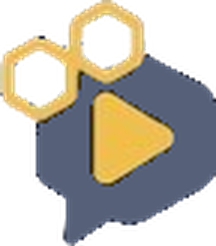
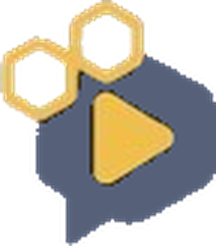
어두운 배경 로고 테두리 투명화와 예약 메뉴명 수정

diff --git a/src/app/(public)/intro/pdfGenerator.ts b/src/app/(public)/intro/pdfGenerator.ts
@@ -60,7 +60,7 @@ export async function generateSellerBricksPdf(
         'border-radius:50%;background:#E8921A;opacity:0.07;"></div>' +
         '<div style="display:flex;flex-direction:column;align-items:center;justify-content:center;' +
         'height:100%;padding:80px;box-sizing:border-box;text-align:center;position:relative;">' +
-          '<img src="' + origin + '/images/brand/logo-original-on-dark.png?v=4" ' +
+          '<img src="' + origin + '/images/brand/logo-original-on-dark.png?v=6" ' +
           'style="height:50px;margin-bottom:44px;object-fit:contain;" />' +
           '<div style="background:#F5A623;color:#1C1917;font-size:11px;font-weight:700;' +
           'letter-spacing:2px;padding:5px 18px;border-radius:20px;margin-bottom:32px;">' +
@@ -302,7 +302,7 @@ export async function generateSellerBricksPdf(
         'border-radius:50%;background:#E8921A;opacity:0.06;"></div>' +
         '<div style="display:flex;flex-direction:column;align-items:center;justify-content:center;' +
         'height:100%;padding:80px;box-sizing:border-box;text-align:center;position:relative;">' +
-          '<img src="' + origin + '/images/brand/logo-original-on-dark.png?v=4" ' +
+          '<img src="' + origin + '/images/brand/logo-original-on-dark.png?v=6" ' +
           'style="height:44px;margin-bottom:36px;object-fit:contain;" />' +
           '<div style="color:#F5A623;font-size:12px;font-weight:700;letter-spacing:2px;margin-bottom:16px;">' +
             'GET STARTED TODAY' +

diff --git a/src/components/layout/site-footer.tsx b/src/components/layout/site-footer.tsx
@@ -12,7 +12,7 @@ export function SiteFooter() {
     <footer className="bg-[#11172B] text-white">
       <div className="container grid gap-12 py-16 sm:py-20 lg:grid-cols-[1.5fr_1fr] lg:gap-20">
         <div>
-          <Link href="/" className="inline-block"><Image src="/images/brand/logo-original-on-dark.png?v=4" alt="셀러브릭스 스튜디오" width={210} height={56} className="h-14 w-auto object-contain" /></Link>
+          <Link href="/" className="inline-block"><Image src="/images/brand/logo-original-on-dark.png?v=6" alt="셀러브릭스 스튜디오" width={210} height={56} className="h-14 w-auto object-contain" /></Link>
           <h2 className="mt-8 text-2xl font-extrabold leading-snug tracking-tight sm:text-3xl">방송에만 집중하세요.<br /><span className="text-brand-300">나머지는 우리가 합니다.</span></h2>
           <p className="mt-4 max-w-md text-sm leading-7 text-white/55">라이브커머스의 공간 탐색부터 운영과 판매 이후의 확인까지, 셀러의 다음 단계를 함께 준비합니다.</p>
           <Link href="/signup/seller" className="mt-7 inline-flex min-h-11 items-center gap-2 rounded-full border border-white/25 px-5 text-sm font-bold text-white transition hover:border-brand-400 hover:text-brand-300">셀러로 시작하기<ArrowRight className="h-4 w-4" /></Link>

diff --git a/src/components/layout/site-header.tsx b/src/components/layout/site-header.tsx
@@ -51,7 +51,7 @@ export function SiteHeader() {
               className="flex items-center gap-1.5 rounded-full px-3 py-2 text-sm font-semibold text-emerald-700 hover:bg-white transition-colors"
             >
               <Building2 className="h-3.5 w-3.5" />
-              시설 예약
+              창고(스튜디오) 예약
             </Link>
           )}
         </nav>
@@ -105,7 +105,7 @@ export function SiteHeader() {
               onClick={() => setOpen(false)}
             >
               <Building2 className="h-3.5 w-3.5" />
-              시설 예약
+              창고(스튜디오) 예약
             </Link>
           )}
           <div className="pt-2 border-t border-border mt-2 flex flex-col gap-2">

diff --git a/src/app/layout.tsx b/src/app/layout.tsx
@@ -6,7 +6,7 @@ import { Providers } from "@/components/providers";
 const siteName = "셀러브릭스 스튜디오";
 const shareTitle = "좋은 상품이 더 멀리 닿는 라이브";
 const shareDescription = "창고(스튜디오) 찾기부터 라이브 준비와 판매 관리까지, 셀러브릭스 스튜디오가 함께합니다.";
-const shareImage = "/images/social/share-card-v4.jpg";
+const shareImage = "/images/social/share-card-v5.jpg";
 
 function getSiteUrl(): URL {
   const configuredUrl = process.env.NEXT_PUBLIC_APP_URL;

diff --git a/src/app/(auth)/layout.tsx b/src/app/(auth)/layout.tsx
@@ -6,7 +6,7 @@ export default function AuthLayout({ children }: { children: React.ReactNode }) 
     <div className="min-h-screen bg-gradient-to-b from-navy to-blue-950 flex flex-col items-center justify-center p-4 py-8">
       <Link href="/" className="mb-6 flex flex-col items-center">
         <Image
-          src="/images/brand/logo-original-on-dark.png?v=4"
+          src="/images/brand/logo-original-on-dark.png?v=6"
           alt="셀러브릭스 스튜디오"
           width={220}
           height={56}

diff --git a/src/components/layout/dashboard-shell.tsx b/src/components/layout/dashboard-shell.tsx
@@ -142,7 +142,7 @@ export function DashboardShell({
         onClick={onNav}
       >
         <Image
-          src="/images/brand/logo-original-on-dark.png?v=4"
+          src="/images/brand/logo-original-on-dark.png?v=6"
           alt="셀러브릭스 스튜디오"
           width={190}
           height={48}

diff --git a/scripts/generate-brand-assets.py b/scripts/generate-brand-assets.py
@@ -30,16 +30,17 @@ def variant(image: Image.Image, dark_background: bool) -> Image.Image:
         x = index % image.width
         if is_gold(red, green, blue):
             pixels.append((red, green, blue, alpha))
-        elif x >= 80 and max(red, green, blue) < 135:
-            # The black SELLER letters need a soft light fill on navy.
+        elif 80 <= x < 234 and max(red, green, blue) < 70:
+            # Recolor only the solid SELLER letter interiors.
             pixels.append((222, 227, 235, alpha))
-        elif max(red, green, blue) < 135:
+        elif x < 80 and max(red, green, blue) < 135:
             # Only recolor the speech-bubble symbol around the play button.
             # Muted blue gray keeps the mark visible on navy without turning it white.
             pixels.append((86, 96, 120, alpha))
         else:
-            # Replace the raster's pale outline with a quiet navy edge.
-            pixels.append((25, 31, 49, alpha))
+            # Remove the source raster's outline. Transparency lets the exact
+            # page background show through in the footer, sidebar and cards.
+            pixels.append((0, 0, 0, 0))
     result = Image.new("RGBA", image.size)
     result.putdata(pixels)
     return result

diff --git a/scripts/generate-share-card.py b/scripts/generate-share-card.py
@@ -75,7 +75,7 @@ def main() -> None:
     draw.text((73, 523), detail, font=fit_font(draw, detail, font_path, 25, 620), fill=muted)
 
     output = SOCIAL / "share-card.png"
-    share_jpg = SOCIAL / "share-card-v4.jpg"
+    share_jpg = SOCIAL / "share-card-v5.jpg"
     rgb_card = card.convert("RGB")
     rgb_card.save(output, optimize=True)
     rgb_card.save(share_jpg, quality=90, optimize=True, progressive=True)

diff --git a/README.md b/README.md
@@ -69,7 +69,7 @@ npm run dev
 
 ## 카카오톡·SNS 공유 카드
 
-사이트 링크의 미리보기에는 `public/images/social/share-card-v4.jpg`(1200×630)가 사용됩니다. Open Graph와 X(Twitter) 카드의 제목·설명·절대 이미지 URL은 `src/app/layout.tsx`에서 설정합니다. 실제 배포 환경에서는 `NEXT_PUBLIC_APP_URL`을 공개 사이트 주소(예: `https://example.com`)로 설정하세요. 이 값이 없으면 요청 호스트를 사용합니다.
+사이트 링크의 미리보기에는 `public/images/social/share-card-v5.jpg`(1200×630)가 사용됩니다. Open Graph와 X(Twitter) 카드의 제목·설명·절대 이미지 URL은 `src/app/layout.tsx`에서 설정합니다. 실제 배포 환경에서는 `NEXT_PUBLIC_APP_URL`을 공개 사이트 주소(예: `https://example.com`)로 설정하세요. 이 값이 없으면 요청 호스트를 사용합니다.
 
 공유 이미지의 배경 원본은 `public/images/social/share-background.png`입니다. 네이비·골드 톤의 라이브커머스 촬영 스튜디오를 생성형 이미지로 제작하고, 로고와 한글 문구는 코드로 선명하게 합성했습니다. 문구를 바꾼 뒤에는 Pillow와 한글 글꼴이 있는 환경에서 `scripts/generate-share-card.py`를 실행하면 PNG 원본과 공유용 JPEG를 함께 다시 만들 수 있습니다. 예: `python scripts/generate-share-card.py --font /path/to/korean-bold.ttf`. 로고를 바꿀 때는 `scripts/generate-brand-assets.py`를 먼저 실행하세요. 공유 카드가 크게 바뀌면 JPEG 파일 이름의 버전을 올려 카카오톡 등 외부 서비스의 기존 이미지 캐시를 피하세요.
 
